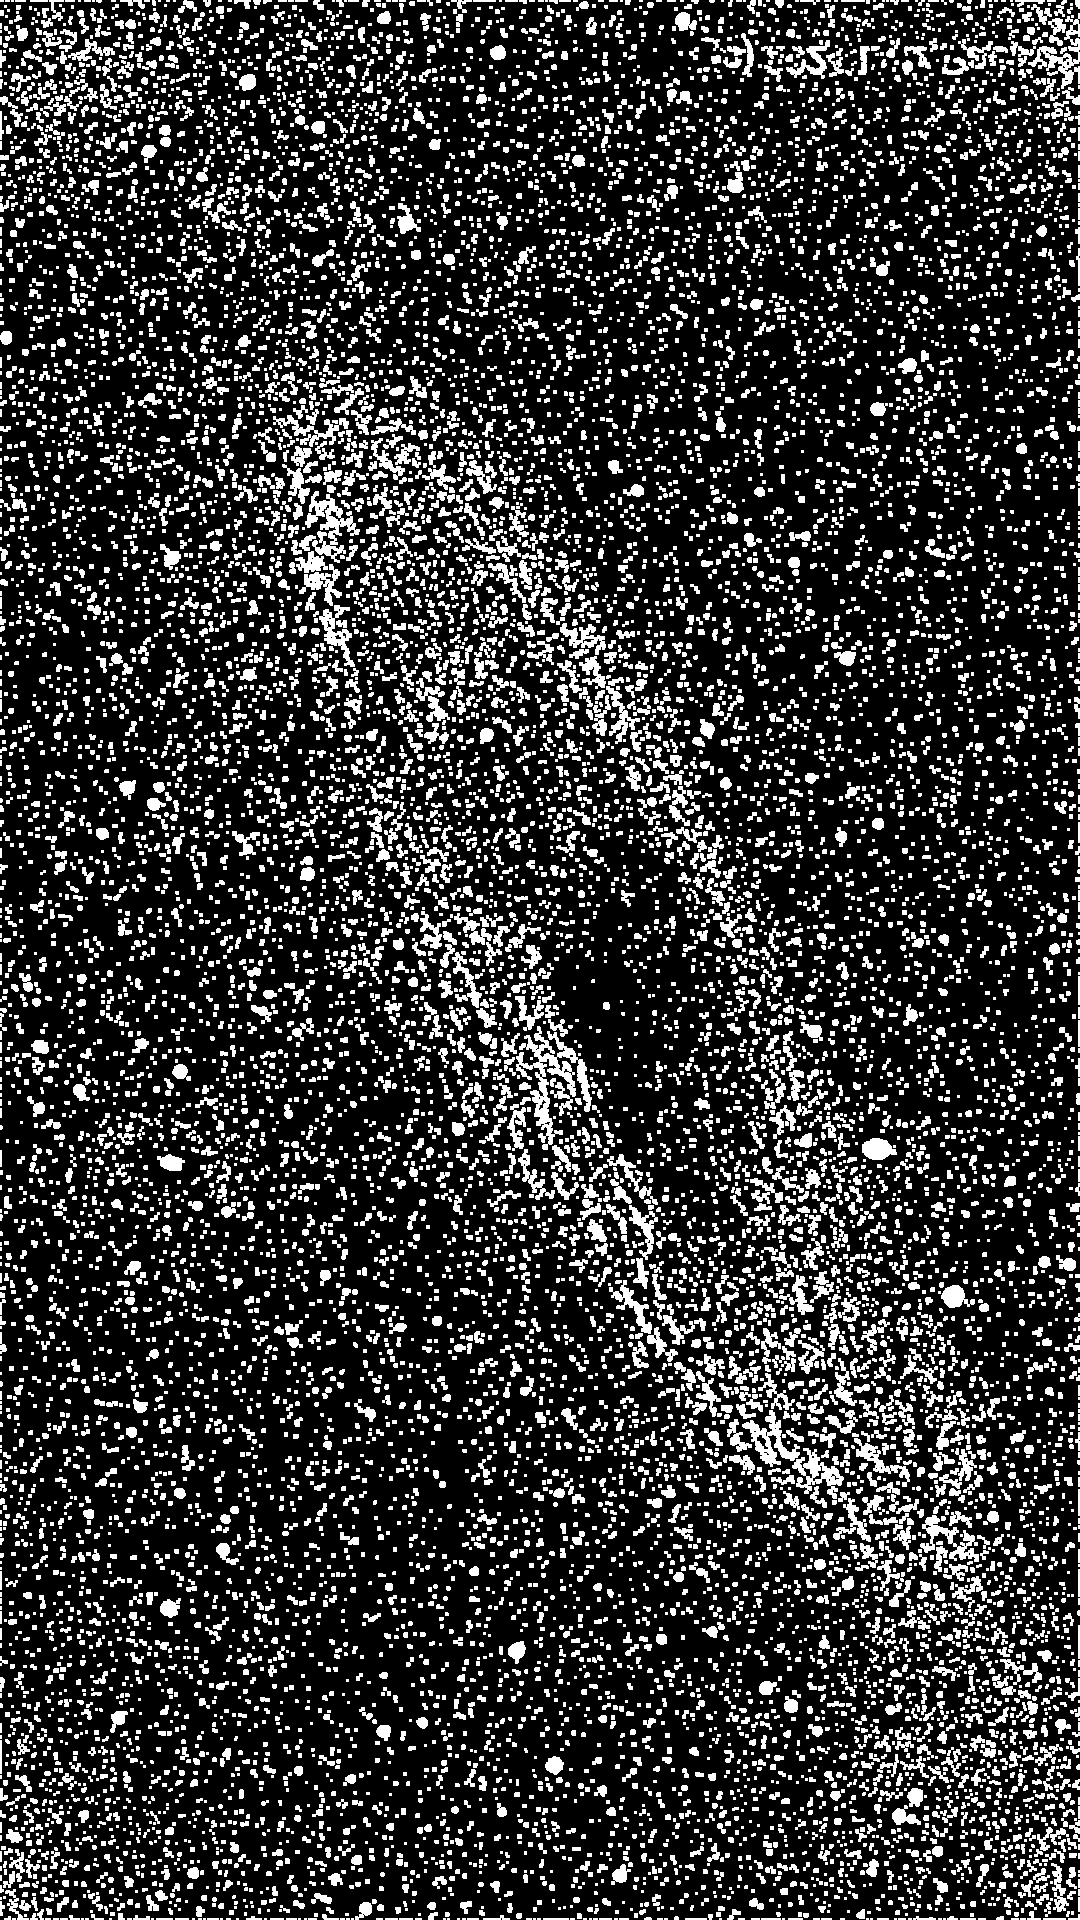
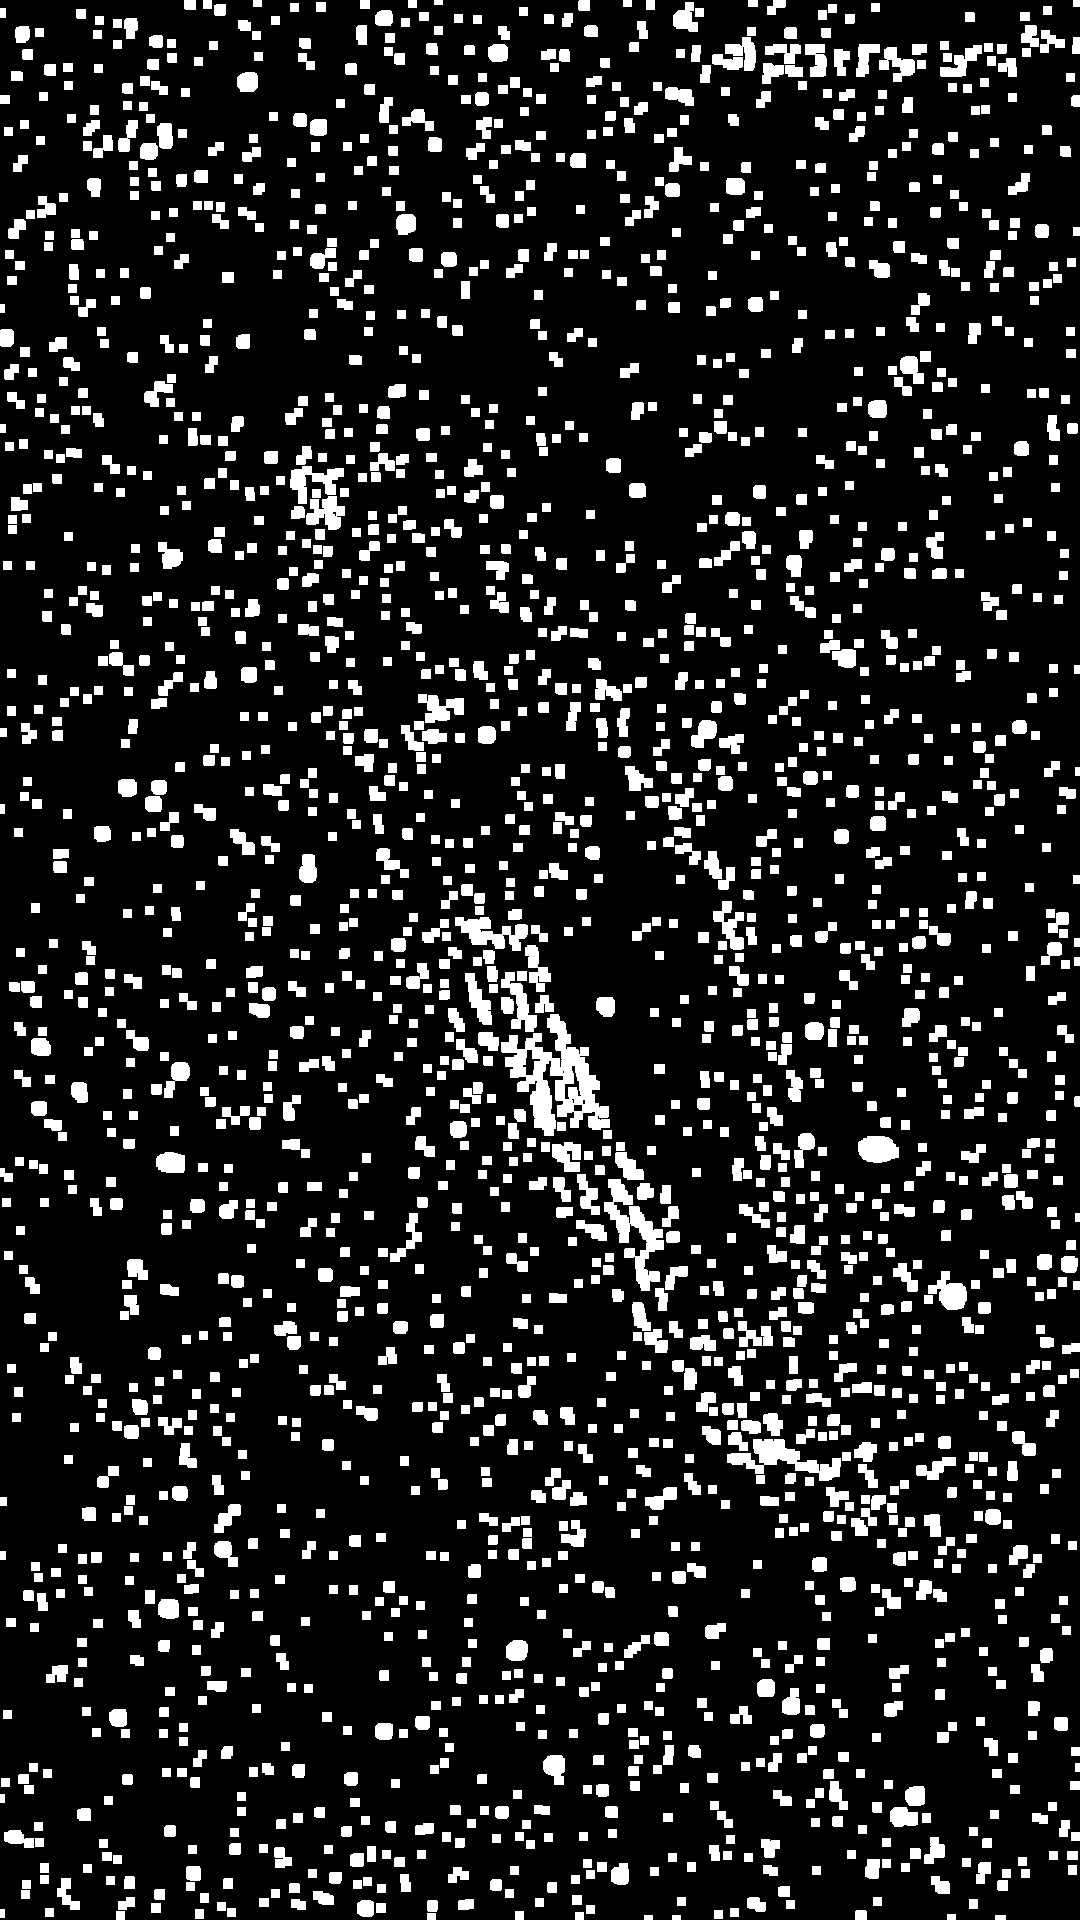
Ajout de la méthode Opening phase 3
- Opening de OpenCV permet maintenant d'avoir un meilleur résultat au niveau de l'image eroded.png
- Cette méthode ne modifie que les étoiles "large"/lumineuse pour les rendre plus petites dans le résultat final
- Test effectué sur examples/m31_star.fits

Changed region(s): [[0.0, 0.0, 1.0, 1.0]]

diff --git a/prototype_phase3.py b/prototype_phase3.py
@@ -4,6 +4,24 @@
 # - AMEDRO Louis (Osiris-Sio)
 # - HERBAUX Jules (Lirei159)
 # - PACE--BOULNOIS Lysandre (NovaChocolat)
+#
+# =========================================================================================
+# Résumé des méthodes utilisées :
+#
+# 1. SEUILLAGE ADAPTATIF (cv.adaptiveThreshold) : Détection locale des étoiles, efficace
+#    même sur les zones lumineuses comme le coeur de la galaxie.
+#
+# 2. OPENING MORPHOLOGIQUE (cv.morphologyEx) : Nettoyage du masque pour supprimer le bruit
+#    numérique (pixels isolés) avant le traitement.
+#
+# 3. DILATATION (cv.dilate) : Élargissement du masque pour couvrir les halos colorés.
+#
+# 4. INPAINTING (cv.inpaint) : Reconstruction intelligente des zones masquées en utilisant
+#    les textures environnantes (fond du ciel / galaxie).
+#
+# 5. ALPHA BLENDING (Fusion) : Mélange pondéré pour réduire la luminosité des étoiles
+#    sans les supprimer totalement dans l'image finale.
+# =========================================================================================
 
 from astropy.io import fits
 import matplotlib.pyplot as plt
@@ -11,94 +29,100 @@ import cv2 as cv
 import numpy as np
 import os
 
-# =========================================================================================
-# résumé des méthodes utilisées :
-# 1. SEUILLAGE ADAPTATIF (cv.adaptiveThreshold) : Détecte les étoiles en calculant un seuil
-#    local, permettant d'isoler les points brillants même sur le fond lumineux de la galaxie.
-#
-# 2. DILATATION MORPHOLOGIQUE (cv.dilate) : Élargit les zones du masque pour englober
-#    totalement les halos (souvent oranges/jaunes) qui entourent les coeurs d'étoiles.
-#
-# 3. RESTAURATION PAR INPAINTING (cv.INPAINT_TELEA) : Reconstruit l'image "eroded" en
-#    remplaçant les étoiles par les textures de la galaxie environnante (méthode de Telea).
-#
-# 4. MÉLANGE ALPHA FLOU (Alpha Blending) : Fusionne l'original et la version restaurée
-#    via un masque flouté (GaussianBlur) pour garantir des transitions invisibles.
-# =========================================================================================
-
 # =================================================================
 # VARIABLES DE CONFIGURATION
 # =================================================================
-FITS_FILE = "./examples/m31_star.fits"
+FITS_FILE = "examples/m31_star.fits"
 
-# Paramètres de détection (Masque)
-MASK_BLOCK = 31  # Voisinage large pour bien englober l'étoile
-MASK_C = -5  # Sensibilité stricte pour ne prendre que les étoiles
-MASK_DILATE_ITER = 1  # Augmenter à 3 ou 4 pour couvrir tout le halo des étoiles
+# Paramètres Érosion préventive (affaiblit les pics de lumière)
+IMAGE_EROSION_SIZE = 3  # Zone de 3x3
+IMAGE_EROSION_ITER = 1  # Itération
 
-# Paramètres d'Inpainting (La nouvelle méthode "magique")
-INPAINT_RADIUS = 10  # Rayon de reconstruction autour de l'étoile
+# Paramètres Masque (Détection) :
+MASK_BLOCK = 31
+MASK_C = -2  # Sensibilité élevée pour capturer les étoiles faibles
+OPENING_KERNEL_SIZE = 3  # Nettoyage du masque
+MASK_DILATE_ITER = 3  # Couverture des halos oranges/blancs
 
-# Paramètres de flou pour la fusion finale (Phase 2/3)
-BLUR_SIZE = 15
+# Paramètres Inpainting & Rendu Final :
+INPAINT_RADIUS = 5  # Rayon de reconstruction
+REDUCTION_ALPHA = 0.6  # Intensité de la réduction (0.6 = étoiles atténuées de 60%)
+BLUR_SIZE = 15  # Flou de transition pour la fusion
 # =================================================================
 
+# 1. Création du dossier de sortie
 if not os.path.exists("./results"):
     os.makedirs("./results")
 
+# 2. Ouverture et lecture du fichier FITS
 hdul = fits.open(FITS_FILE)
 data = hdul[0].data
 
-# Préparation de l'image
+# 3. Préparation et sauvegarde de l'image ORIGINAL
+# Normalisation des données FITS (0.0 à 1.0)
+data_norm = (data - data.min()) / (data.max() - data.min())
+
 if data.ndim == 3:
-    if data.shape[0] == 3:
-        data = np.transpose(data, (1, 2, 0))
-    image = ((data - data.min()) / (data.max() - data.min()) * 255).astype("uint8")
+    if data.shape[0] == 3:  # Ajustement des axes si nécessaire
+        data_norm = np.transpose(data_norm, (1, 2, 0))
+    plt.imsave("./results/original.png", data_norm)
+    # Conversion en uint8 BGR pour OpenCV
+    image = (data_norm * 255).astype("uint8")
     image = cv.cvtColor(image, cv.COLOR_RGB2BGR)
 else:
-    image = ((data - data.min()) / (data.max() - data.min()) * 255).astype("uint8")
+    plt.imsave("./results/original.png", data_norm, cmap="gray")
+    image = (data_norm * 255).astype("uint8")
 
-# étape A : Création du masque de détection
+##### Phase 1 : Érosion de l'image complète
+# On réduit légèrement l'intensité de tous les points brillants
+kernel_img = np.ones((IMAGE_EROSION_SIZE, IMAGE_EROSION_SIZE), np.uint8)
+image_eroded_step1 = cv.erode(image, kernel_img, iterations=IMAGE_EROSION_ITER)
+
+## étape A : Création et nettoyage du masque d'étoiles
 gray = cv.cvtColor(image, cv.COLOR_BGR2GRAY) if image.ndim == 3 else image
 mask = cv.adaptiveThreshold(
     gray, 255, cv.ADAPTIVE_THRESH_GAUSSIAN_C, cv.THRESH_BINARY, MASK_BLOCK, MASK_C
 )
 
-# On dilate un peu le masque pour être sûr de couvrir TOUT le halo des étoiles
-kernel_dilate = np.ones((3, 3), np.uint8)
-mask_dilated = cv.dilate(mask, kernel_dilate, iterations=MASK_DILATE_ITER)
+# Opening pour supprimer le bruit parasite du masque
+kernel_m = np.ones((OPENING_KERNEL_SIZE, OPENING_KERNEL_SIZE), np.uint8)
+mask_cleaned = cv.morphologyEx(mask, cv.MORPH_OPEN, kernel_m)
 
-# phase 1 : Inpainting (L'amélioration de l'eroded)
-# Cette méthode remplace les étoiles par la texture du ciel voisin
-print("Calcul de l'Inpainting (cela peut prendre quelques secondes)...")
-eroded_inpainted = cv.inpaint(image, mask_dilated, INPAINT_RADIUS, cv.INPAINT_TELEA)
+# Dilatation pour englober les halos autour des étoiles
+mask_dilated = cv.dilate(mask_cleaned, kernel_m, iterations=MASK_DILATE_ITER)
 
-# 2. Résultat : ERODED (Ici, on ne voit quasiment plus que la galaxie, mais un peu flou, avec un reste des étoiles larges)
-cv.imwrite("./results/eroded.png", eroded_inpainted)
+#### PHASE 2 : Inpainting (Restauration pour l'image ERODED)
+# Création d'une image où les étoiles sont totalement supprimées
+print("Calcul de l'Inpainting...")
+eroded_final = cv.inpaint(
+    image_eroded_step1, mask_dilated, INPAINT_RADIUS, cv.INPAINT_TELEA
+)
 
-# phase 2/3 : Fusion Finale
-# Floutage pour la transition
+# Sauvegarde du résultat intermédiaire (Zéro étoiles)
+cv.imwrite("./results/eroded.png", eroded_final)
+
+##### Phase 3 : Fusion Finale (Alpha Blending pour réduction)
+# Adoucissement des bords du masque pour une fusion naturelle
 mask_blurred = cv.GaussianBlur(mask_dilated, (BLUR_SIZE, BLUR_SIZE), 0)
 M = mask_blurred.astype(np.float32) / 255.0
 
 if image.ndim == 3:
     M = np.stack([M] * 3, axis=-1)
 
+# Passage en flottant pour les calculs de fusion
 Ioriginal = image.astype(np.float32)
-Ieroded = eroded_inpainted.astype(np.float32)
+Ieroded = eroded_final.astype(np.float32)
 
-# Fusion : on garde l'original partout, sauf là où il y avait des étoiles
-final_image_float = (M * Ieroded) + ((1.0 - M) * Ioriginal)
+# Application de la réduction (Compromis entre l'original et le vide)
+# Formule : M * Force * Image_Vide + (1 - M * Force) * Image_Originale
+final_image_float = (M * REDUCTION_ALPHA * Ieroded) + (
+    1.0 - (M * REDUCTION_ALPHA)
+) * Ioriginal
 final_image = np.clip(final_image_float, 0, 255).astype(np.uint8)
 
-# Sauvegardes
-plt.imsave(
-    "./results/original.png",
-    cv.cvtColor(image, cv.COLOR_BGR2RGB) if image.ndim == 3 else image,
-    cmap="gray",
-)
+# 4. Sauvegardes finales des résultats
 cv.imwrite("./results/star_mask.png", mask_dilated)
 cv.imwrite("./results/final_phase3.png", final_image)
 
 hdul.close()
-print("Terminé !")
+print("Terminé ! Les 4 fichiers sont disponibles dans le dossier ./results/")
